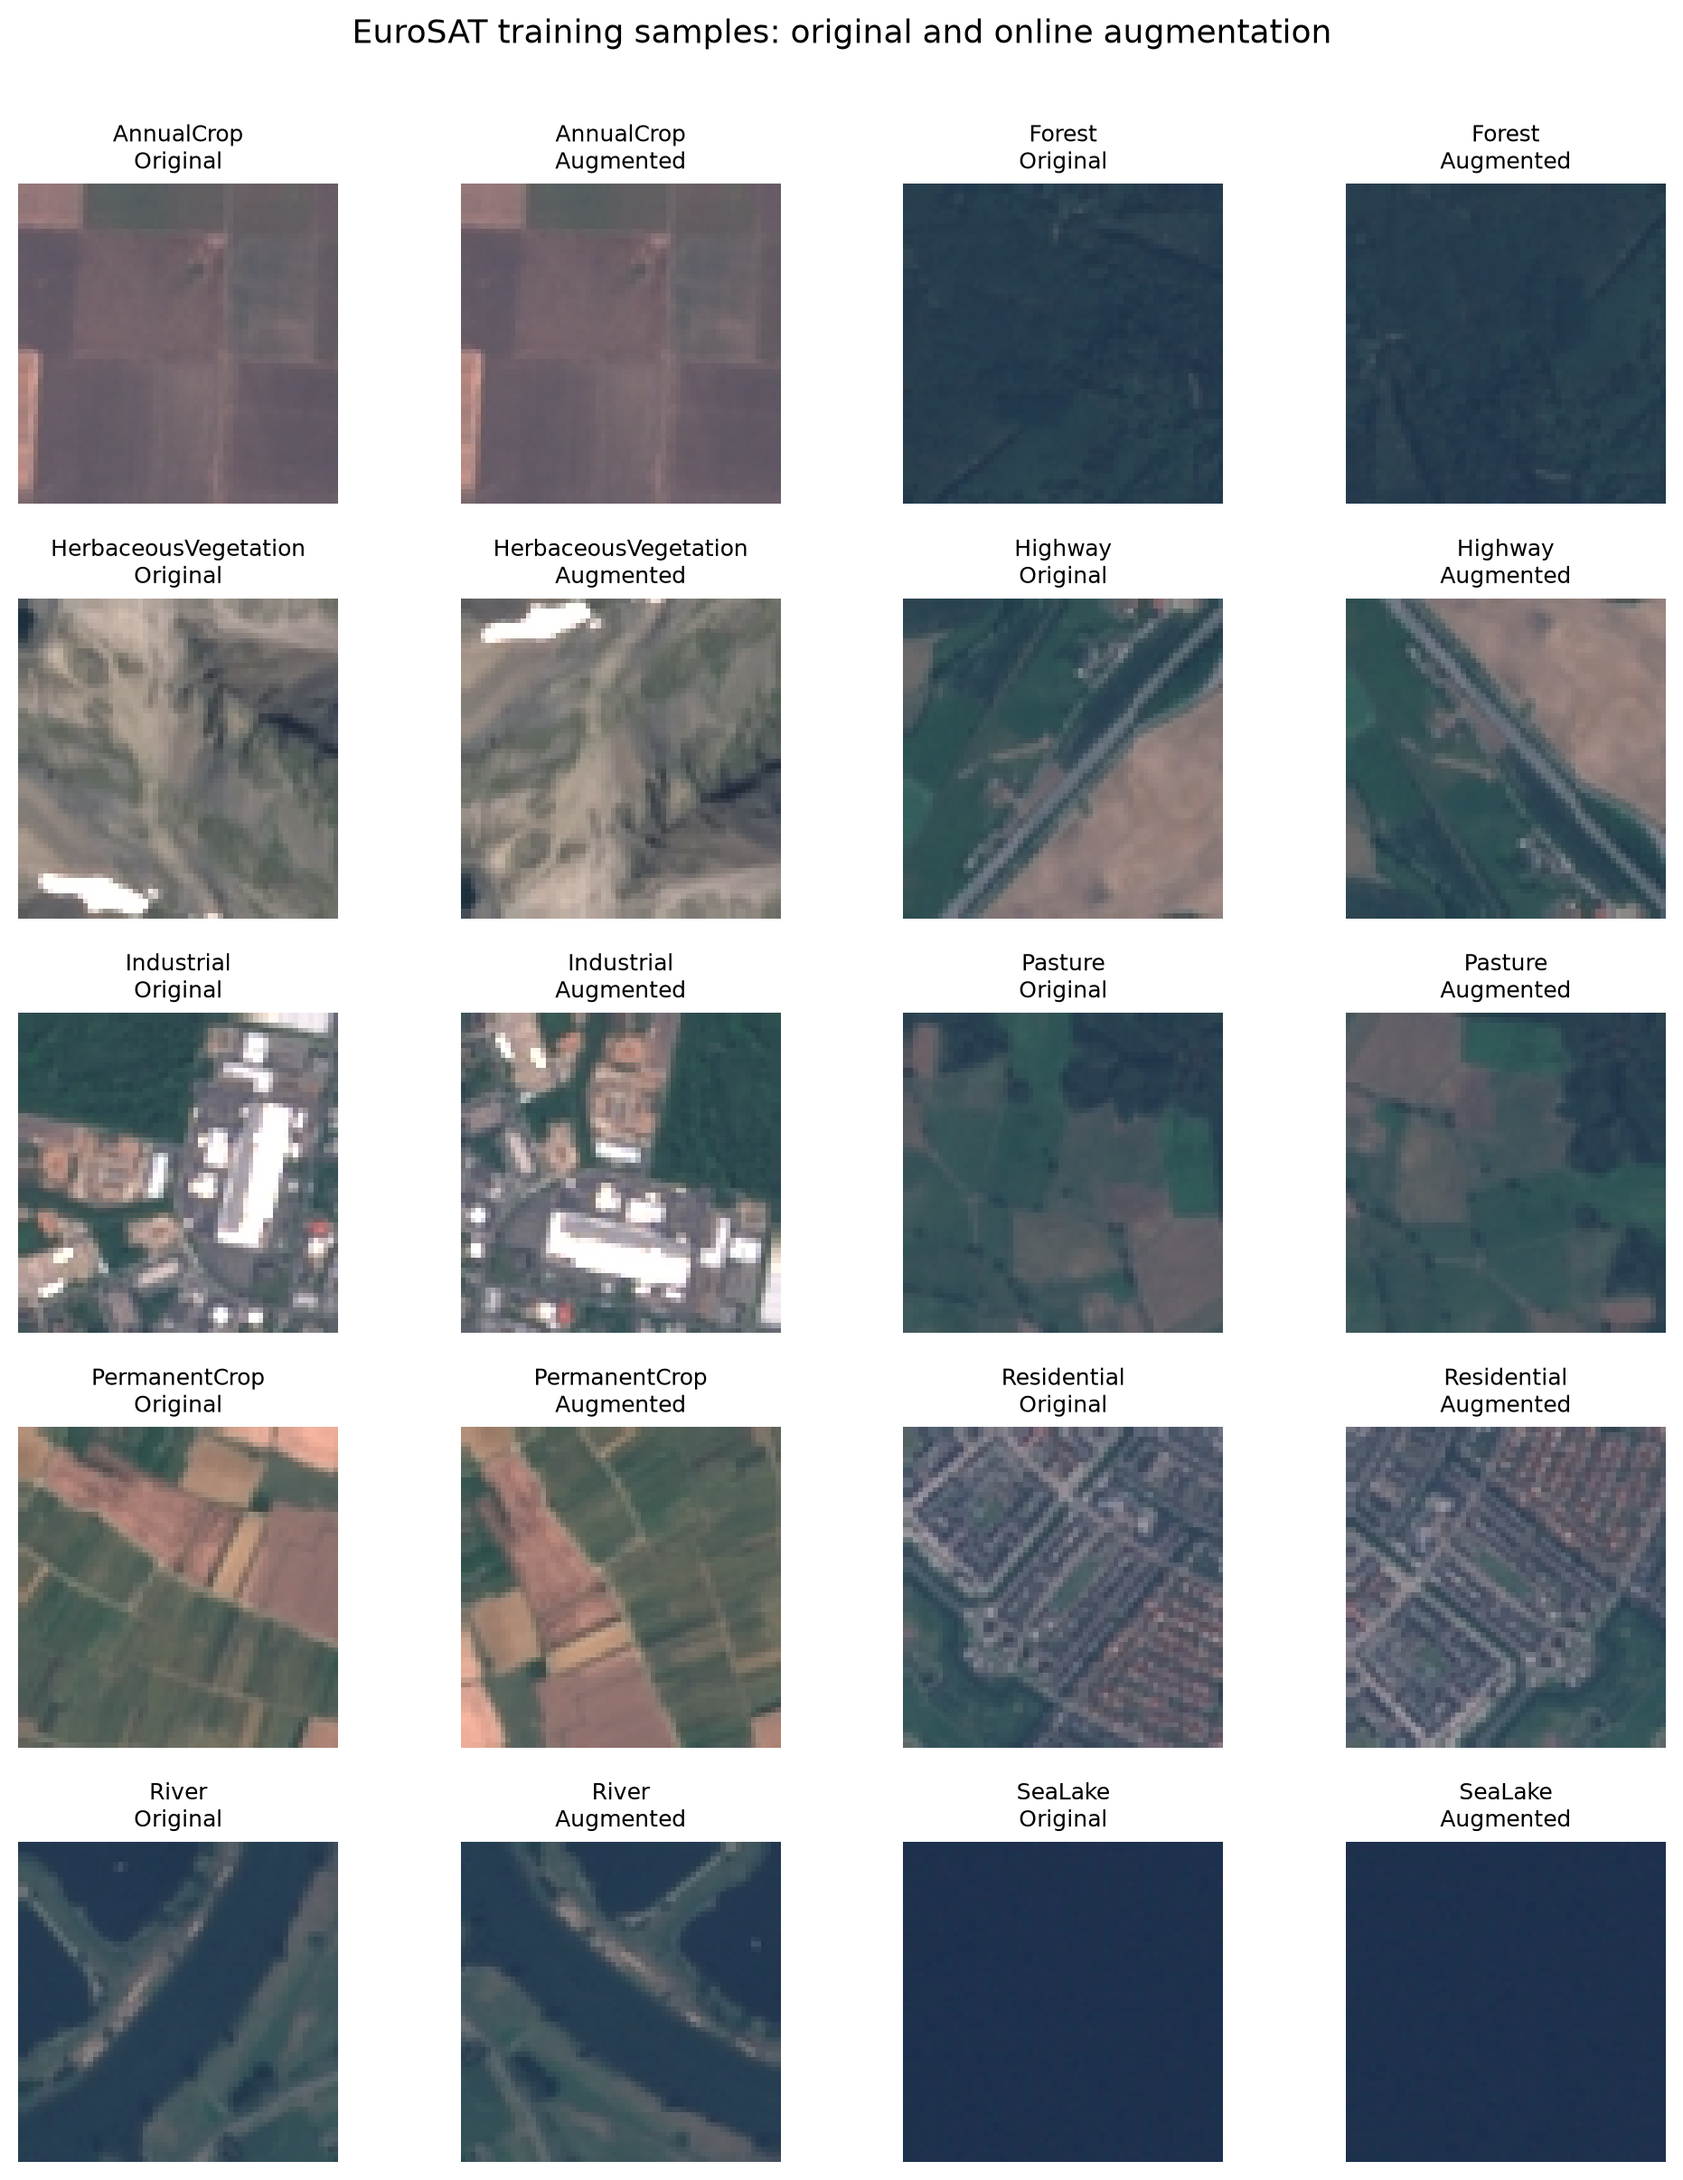
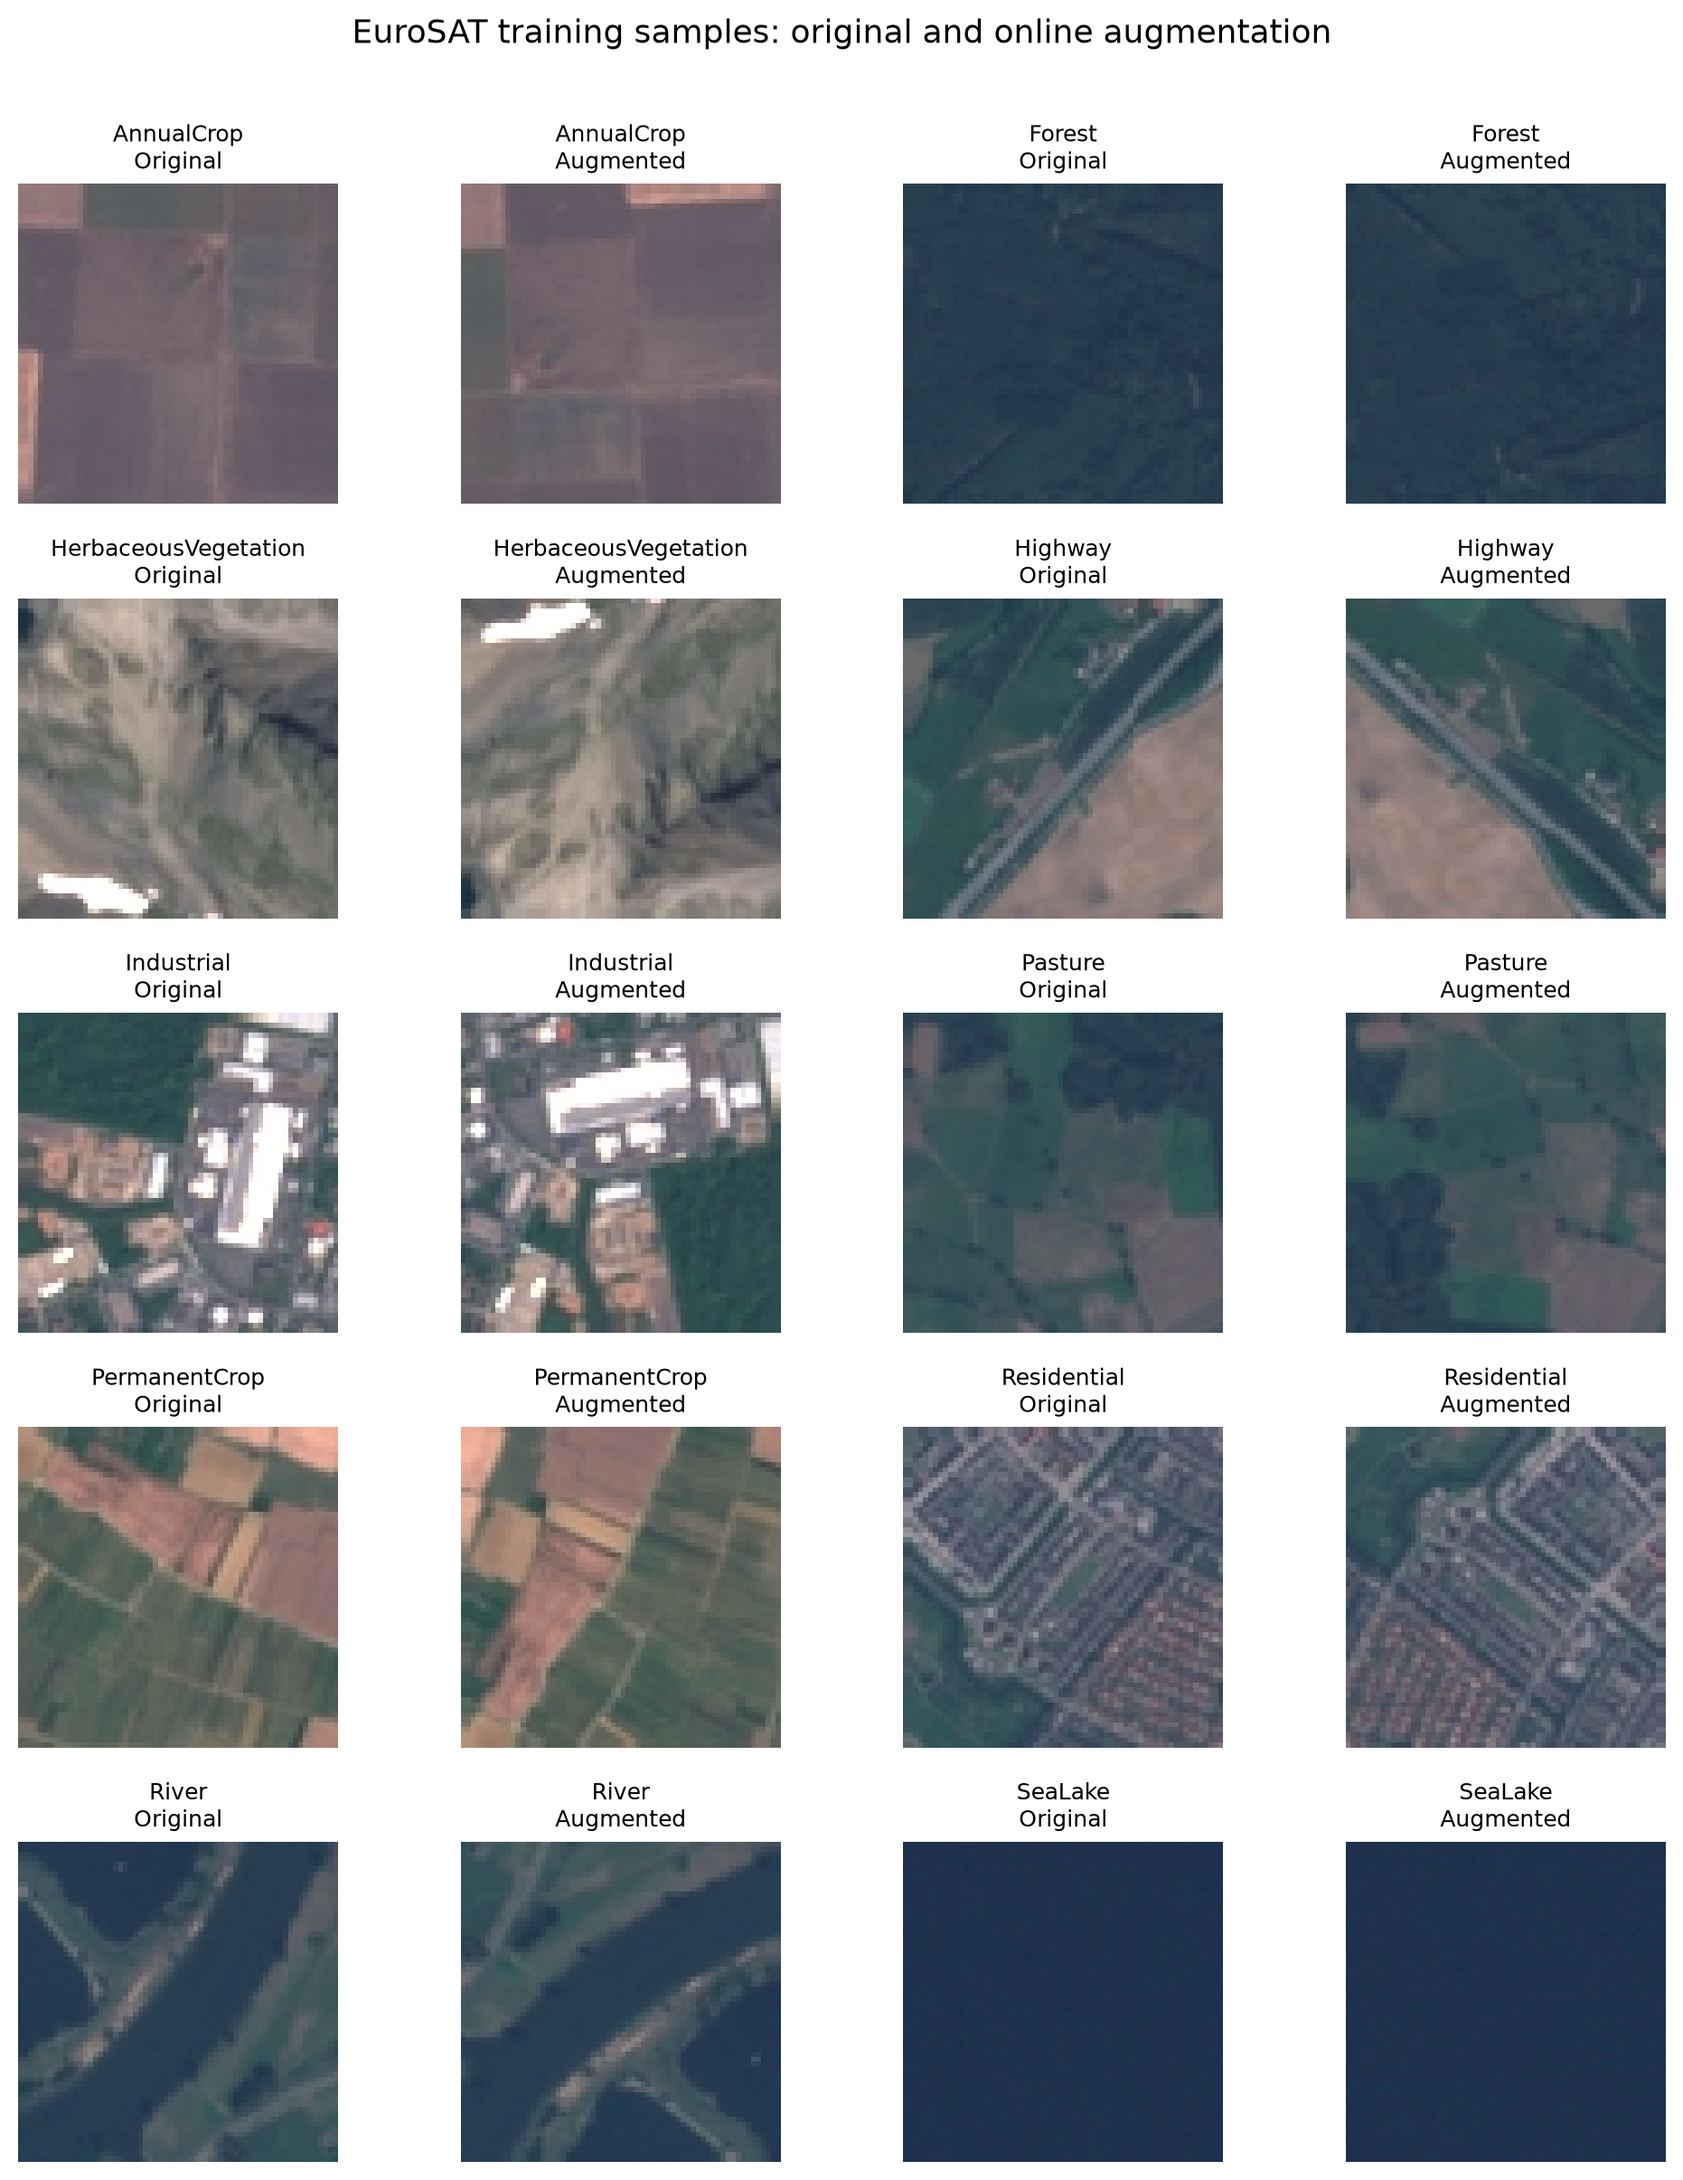
fix(data): keep worker start-up out of epoch time, fix sample grid
- persistent_workers when num_workers > 0. Without it every epoch re-spawned
  its workers inside the timed training pass (~4 s of a ~12 s epoch on
  Windows), inflating the graded epoch_seconds column.
- Redraw an identity augmentation in the sample grid. The seeded draw for
  AnnualCrop was no flip and no turn, so its "Augmented" panel was identical
  to the original. Regenerated the figure.
- Build the grid with matplotlib.figure.Figure instead of pyplot, which picked
  the Tk backend on Windows and intermittently failed to initialise Tcl.
- Fix a stray "#" inside the test module docstring.

diff --git a/src/pr_edge/data.py b/src/pr_edge/data.py
@@ -380,6 +380,25 @@ def _build_transform(
     return transforms.Compose(operations)
 
 
+def _distinct_augmentation(
+    dataset: _EuroSATDataset, index: int, reference: torch.Tensor, attempts: int = 16,
+) -> torch.Tensor:
+    """Draw an augmented view of one sample that differs from ``reference``.
+
+    With no flip and no quarter-turn (a 1-in-16 draw) the policy returns the
+    image unchanged, and an "Augmented" panel identical to its original reads
+    as a bug in the report. Redrawing stays deterministic under the caller's
+    seed. A symmetric image may have no distinct view at all, so give up after
+    ``attempts`` draws rather than looping forever.
+    """
+    changed, _ = dataset[index]
+    for _ in range(attempts - 1):
+        if not torch.equal(changed, reference):
+            break
+        changed, _ = dataset[index]
+    return changed
+
+
 def _write_sample_grid(
     cfg: Config,
     out: str | Path = REPORT_DIR / "figures" / "data_augmentation_grid.png",
@@ -391,7 +410,10 @@ def _write_sample_grid(
     denormalised solely for display. The local RNG context keeps report figure
     generation from changing a subsequent experiment's random state.
     """
-    import matplotlib.pyplot as plt
+    # The object-oriented Figure API never selects a GUI backend. pyplot picks
+    # Tk on Windows, which intermittently fails to initialise Tcl in tests and
+    # is pointless for a file that is only ever saved.
+    from matplotlib.figure import Figure
 
     stats = compute_norm_stats(cfg)
     original = _EuroSATDataset(cfg, "train", transform=_build_transform(cfg, "val", stats))
@@ -405,9 +427,8 @@ def _write_sample_grid(
     labels = sorted(first_by_label)
     pairs_per_row = 2
     rows = math.ceil(len(labels) / pairs_per_row)
-    figure, axes = plt.subplots(
-        rows, pairs_per_row * 2, figsize=(10, 2.45 * rows), squeeze=False,
-    )
+    figure = Figure(figsize=(10, 2.45 * rows))
+    axes = figure.subplots(rows, pairs_per_row * 2, squeeze=False)
     mean = torch.tensor(stats["mean"], dtype=torch.float32).view(3, 1, 1)
     std = torch.tensor(stats["std"], dtype=torch.float32).view(3, 1, 1)
 
@@ -421,7 +442,7 @@ def _write_sample_grid(
             row, pair = divmod(position, pairs_per_row)
             index = first_by_label[label]
             plain, _ = original[index]
-            changed, _ = augmented[index]
+            changed = _distinct_augmentation(augmented, index, plain)
             for column_offset, (image, heading) in enumerate(
                 ((plain, "Original"), (changed, "Augmented"))
             ):
@@ -438,7 +459,6 @@ def _write_sample_grid(
     out = resolve_path(out)
     out.parent.mkdir(parents=True, exist_ok=True)
     figure.savefig(out, dpi=200, bbox_inches="tight")
-    plt.close(figure)
     return out
 
 
@@ -659,6 +679,10 @@ def get_dataloaders(cfg: Config) -> tuple[DataLoader, DataLoader, DataLoader]:
             shuffle=(split == "train"),
             drop_last=False,
             generator=generator,
+            # Keep workers alive between epochs. Otherwise every epoch pays
+            # worker start-up (~4 s per epoch with spawn on Windows) inside the
+            # timed training pass, inflating the graded epoch_seconds column.
+            persistent_workers=cfg.data.num_workers > 0,
             worker_init_fn=_seed_worker,
         ))
     return loaders[0], loaders[1], loaders[2]

diff --git a/tests/test_data.py b/tests/test_data.py
@@ -12,7 +12,7 @@ Three tiers, none of which touch the network:
    guard the partition every result in ``results/`` descends from.
 
 #3 covers manifest-backed images, statistics, transforms and loader integration
-# below, including worker processes with Windows-compatible spawn semantics.
+below, including worker processes with Windows-compatible spawn semantics.
 See docs/interfaces.md section 5 for the full test-file map.
 """
 
@@ -40,6 +40,7 @@ from pr_edge.data import (
     _RandomQuarterTurn,
     _allocate,
     _build_transform,
+    _distinct_augmentation,
     _stratified_split,
     _write_sample_grid,
     compute_norm_stats,
@@ -860,3 +861,39 @@ def test_sample_grid_does_not_read_holdout_images(norm_config, tmp_path):
         for path, _ in _EuroSATDataset(norm_config, split).samples:
             path.write_bytes(b"holdout image must not be decoded for the training grid")
     assert _write_sample_grid(norm_config, tmp_path / "grid.png").is_file()
+
+
+def test_sample_grid_redraws_an_identity_augmentation(loader_config, monkeypatch):
+    # Force no flips, then a first draw of zero turns and a second of one turn:
+    # the identity view must be rejected in favour of the rotated one.
+    monkeypatch.setattr(torch, "rand", lambda *args, **kwargs: torch.tensor([1.0]))
+    turns = iter([0, 1])
+    monkeypatch.setattr(torch, "randint", lambda *args, **kwargs: torch.tensor(next(turns)))
+    stats = compute_norm_stats(loader_config)
+    plain, _ = _EuroSATDataset(
+        loader_config, "train", transform=_build_transform(loader_config, "val", stats),
+    )[0]
+    augmented = _EuroSATDataset(
+        loader_config, "train", transform=_build_transform(loader_config, "train", stats),
+    )
+    changed = _distinct_augmentation(augmented, 0, plain)
+    assert not torch.equal(changed, plain)
+    torch.testing.assert_close(changed, torch.rot90(plain, 1, dims=(1, 2)))
+
+
+def test_sample_grid_gives_up_on_images_with_no_distinct_view(norm_config):
+    # Flat colours look identical under every flip and turn; this must terminate.
+    stats = compute_norm_stats(norm_config)
+    augmented = _EuroSATDataset(
+        norm_config, "train", transform=_build_transform(norm_config, "train", stats),
+    )
+    plain, _ = _EuroSATDataset(
+        norm_config, "train", transform=_build_transform(norm_config, "val", stats),
+    )[0]
+    assert torch.equal(_distinct_augmentation(augmented, 0, plain, attempts=4), plain)
+
+
+@pytest.mark.parametrize("workers,persistent", [(0, False), (2, True)])
+def test_workers_persist_so_startup_stays_out_of_epoch_time(loader_config, workers, persistent):
+    cfg = replace(loader_config, data=replace(loader_config.data, num_workers=workers))
+    assert all(loader.persistent_workers is persistent for loader in get_dataloaders(cfg))
